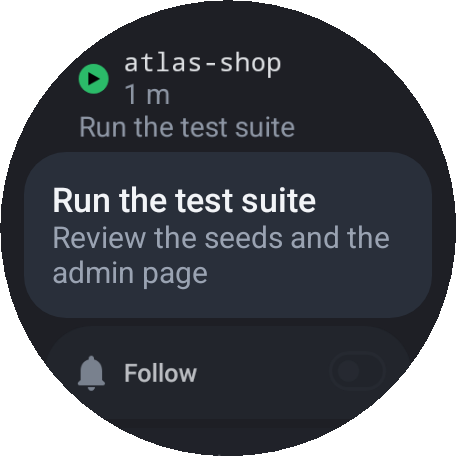
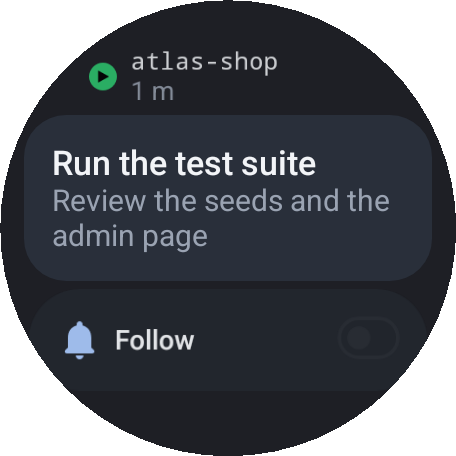
docs: README screens after the card and outcome merge, the answer in paragraphs, the tagged complication

diff --git a/README.md b/README.md
@@ -6,11 +6,11 @@ Claude Code sessions of your machine on your wrist — the one waiting for an an
 <table>
   <tr>
     <td align="center"><img src="docs/readme/sessions.png" width="220" alt="Sessions list: the session waiting for an answer first, with its question in full"><br>Sessions</td>
-    <td align="center"><img src="docs/readme/question.png" width="220" alt="A question full screen, read aloud with ▶, the options as wide buttons"><br>Question</td>
-    <td align="center"><img src="docs/readme/card.png" width="220" alt="A session's card: what it is doing, follow, terminal, outcome"><br>Session</td>
+    <td align="center"><img src="docs/readme/question.png" width="220" alt="A question full screen, ▶ next to the session's name to read it aloud, the options as wide buttons"><br>Question</td>
+    <td align="center"><img src="docs/readme/card.png" width="220" alt="A working session's card: what it is doing and what comes next; a tap opens the whole answer"><br>Session</td>
   </tr>
   <tr>
-    <td align="center"><img src="docs/readme/outcome.png" width="220" alt="The outcome of a turn, big when short, read aloud on demand"><br>Outcome</td>
+    <td align="center"><img src="docs/readme/card-idle.png" width="220" alt="A stopped session's card with its outcome in full, no extra tap"><br>Outcome</td>
     <td align="center"><img src="docs/readme/quota.png" width="220" alt="Quota in the style of the Wear OS morning brief: 5-hour window, week, resets"><br>Quota</td>
     <td align="center"><img src="docs/readme/complication.png" width="220" alt="The quota ring complication on a watch face, with the app symbol and the percentage"><br>Complication</td>
   </tr>
@@ -22,12 +22,14 @@ App screens are rendered from the app's code by the Paparazzi snapshot tests, on
 - **Tile**: the session in focus with what it is doing and, under a running tool, its latest step;
   three lines and the quota bar, or two lines and two bars (5 hours and week) when the text leaves
   room. Room decides, not a threshold.
-- **Complication**: the quota ring with the app symbol and the percentage; short and long text with
-  the sessions waiting or working.
+- **Complication**: the quota ring with the percentage and its window drawn below, 5h or 7d; when the
+  5-hour window is empty (nights, weekends) the ring shows the week. Short and long text with the
+  sessions waiting or working.
 - **Notifications**: one conversation per session, the first two options as direct actions, reply
   with choices or dictation, the question closed on the wrist when it is answered elsewhere.
-- **App**: sessions of every account, the session card, the question full screen with wide buttons,
-  the outcome read aloud on demand, the terminal tail, the timeline, launch, follow, the quota
+- **App**: sessions of every account, a closed one reopened in its conversation from its row; the
+  session card with the outcome in full; the whole answer in paragraphs, read aloud block by block,
+  above the terminal tail; the question full screen with wide buttons, the timeline, launch, follow, the quota
   cards, the day's recap, the night queue. Margins follow the round screen, texts are read by
   TalkBack and grow with the system font size.
 - **Transport**: Firebase RTDB + FCM behind a `Transport` interface, every document an end-to-end
